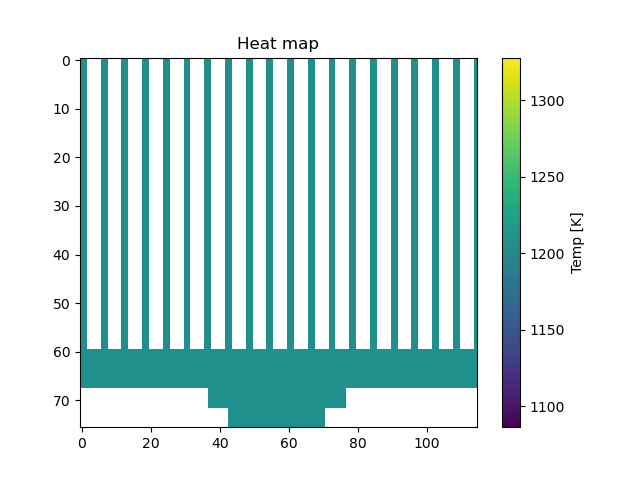
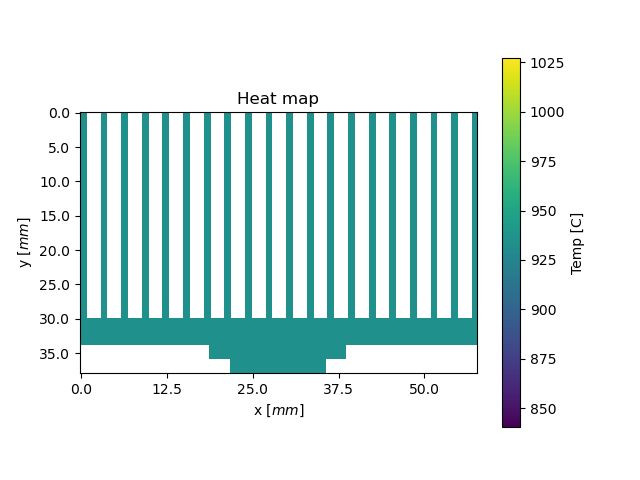
graphs

diff --git a/project_4/main.py b/project_4/main.py
@@ -112,11 +112,11 @@ def find_ini_T(lower_limit, upper_limit, max_iterations=2000, max_repeat=20, cas
 #     string = 'last tried : ' + str(last_tried)
 #     file.write(string + '\n')
 
-with open('project_4\\no_sink_natural_convection\\ini_T.txt', 'r') as file:
-    last_tried = file.readlines()
-last_tried = float(last_tried[0].split(':')[1].strip())
-with_case = cg.grid(sink_dim=None, nat_conv=True, delta=[0.1e-3,0.1e-3], ini_temp=last_tried)
-with_case.iterate_K(max_iterations=10000, save=True, save_every=10000, save_folder='no_sink_natural_convection', tolerance=1e-3, title='No heat sink, Natural convection')
+# with open('project_4\\no_sink_natural_convection\\ini_T.txt', 'r') as file:
+#     last_tried = file.readlines()
+# last_tried = float(last_tried[0].split(':')[1].strip())
+# with_case = cg.grid(sink_dim=None, nat_conv=True, delta=[0.1e-3,0.1e-3], ini_temp=last_tried)
+# with_case.iterate_K(max_iterations=10000, save=True, save_every=10000, save_folder='no_sink_natural_convection', tolerance=1e-3, title='No heat sink, Natural convection')
 
 
 ############################### for heat sink ###############################s
@@ -151,6 +151,8 @@ with_case.iterate_K(max_iterations=10000, save=True, save_every=10000, save_fold
 #         string = 'for fin number = ' + str(i) + ' highest_T : ' + str(highest_T)
 #         file.write(string + '\n')
 
+sink = cg.grid(case_dim=[20e-3,2e-3], sink_dim=[4e-3,30e-3,2e-3,1e-3,20], nat_conv=True, delta=[0.25e-3,0.25e-3], ini_temp=1207.04345703125)
+highest_T = sink.iterate_K(max_iterations=20000, save=True, save_every=20000, save_folder=f'natural_convection\\5pt_per_mm\\change_fin_num\\fins_{20}', return_highest_T=True, tolerance=0.0001, title='Heat sink with 20 fins, Natural convection')
 
 # # how fin height and spacing affects the initial temperature
 # fin_heights = [5, 10, 15, 20, 25, 30]

diff --git a/project_4/create_grid.py b/project_4/create_grid.py
@@ -166,8 +166,8 @@ class grid():
             plt.colorbar(c, label='Temp [C]')
             plt.xlabel('x $[mm]$')
             plt.ylabel('y $[mm]$')
-            plt.xticks(np.arange(0, Temp.shape[1]+0.01, 100), np.arange(0, Temp.shape[1]+0.01, 100)*self.d*1e3)
-            plt.yticks(np.arange(0, Temp.shape[0]+0.01, 10), np.arange(0, Temp.shape[0]+0.01, 10)*self.d*1e3)
+            plt.xticks(np.arange(0, Temp.shape[1], 50), np.arange(0, Temp.shape[1], 50)*self.d*1e3)
+            plt.yticks(np.arange(0, Temp.shape[0], 20), np.arange(0, Temp.shape[0], 20)*self.d*1e3)
             if self.debug == True:
                 for i in range(self.T.shape[0]):
                     for j in range(self.T.shape[1]):
@@ -611,7 +611,7 @@ class grid():
             # checking for convergence
             new_total_energy = np.sum(self.T)
             change = new_total_energy - total_energy
-            if (abs(change) < tolerance and iteration > 12345) or (iteration>1234 and abs(change) > abs(previous_change)):
+            if (abs(change) < tolerance and iteration > 12345) or (iteration>5000 and abs(change) > abs(previous_change)):
                 # setting  minimum number of iterations to make sure it has converged
                 # also checking if the change is increasing, if so, then it has already reached the minimum
                 print('Converged after', iteration, 'iterations')

diff --git a/project_4/natural_convection/fin_dim_plot.py b/project_4/natural_convection/fin_dim_plot.py
@@ -1,0 +1,40 @@
+import numpy as np
+import matplotlib.pyplot as plt
+from mpl_toolkits import mplot3d
+
+# Import data
+tempertures = []
+with open('project_4\\natural_convection\\5pt_per_mm\change_fin_dim\highest_T.txt', 'r') as f:
+    lines = f.readlines()
+for line in lines:
+    temp = line.split(':')[1].strip()
+    tempertures.append(float(temp))
+temperatures = np.array(tempertures)
+temperatures = temperatures.reshape(4,6)
+
+print(temperatures)
+
+t = np.linspace(1000, 3000, 6)
+fin_heights = np.linspace(5, 30, 6) 
+print(fin_heights)
+fin_separation = np.linspace(4, 1, 4)
+fin_heights, fin_separation = np.meshgrid(fin_heights, fin_separation)
+# fin_heights = fin_heights.flatten()
+# fin_separation = fin_separation.flatten()
+
+
+# Plot data
+fig = plt.figure()
+ax = plt.axes(projection='3d')
+ax.set_title('Peak Microprocessor Temperature\n vs. Fin Dimensions')
+ax.set_xlabel('Fin Height [mm]')
+ax.set_ylabel('Fin Separation [mm]')
+# ax.set_yticks(fin_separation.flatten())
+# ax.set_xticks(fin_heights.flatten())
+ax.set_zlabel('Temperature [$^\circ$C]')
+# ax.set_zticks(t)
+ax.plot_surface(fin_heights, fin_separation, temperatures, cmap='viridis')
+plt.show()
+
+# #saving plot
+# plt.savefig('project_4\\natural_convection\\fin_dim_plot.png', dpi=300)

diff --git a/project_4/natural_convection/fin_num_plot.py b/project_4/natural_convection/fin_num_plot.py
@@ -1,0 +1,21 @@
+import numpy as np
+import matplotlib.pyplot as plt
+
+# Import data
+tempertures = []
+with open('project_4\\natural_convection\\5pt_per_mm\change_fin_num\highest_T.txt', 'r') as f:
+    lines = f.readlines()
+for line in lines:
+    temp = line.split(':')[1].strip()
+    tempertures.append(float(temp))
+
+# Plot data
+plt.title('Peak Microprocessor Temperature vs. Number of fins')
+plt.plot(np.linspace(1,39,39),tempertures, 'x')
+plt.grid()
+plt.xlabel('Number of fins')
+plt.ylabel('Temperature [$^\circ$C]')
+# plt.show()
+
+#saving plot
+plt.savefig('project_4\\natural_convection\\fin_num.png')
